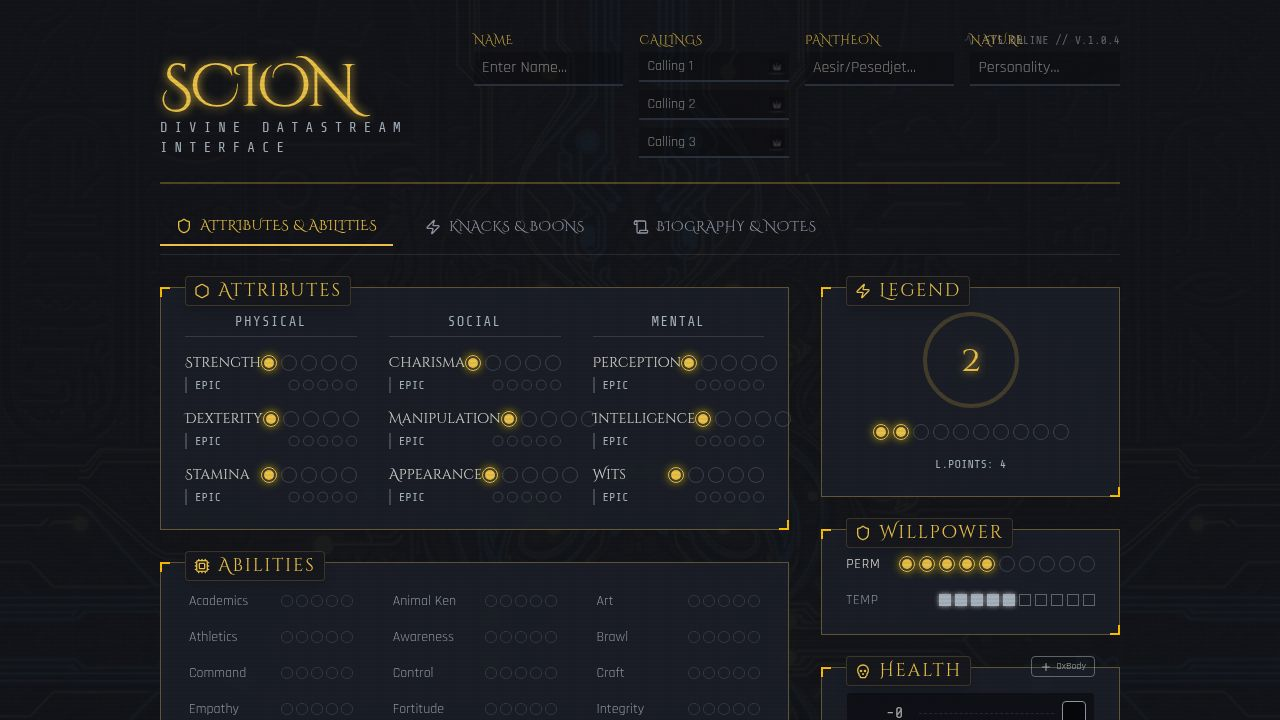
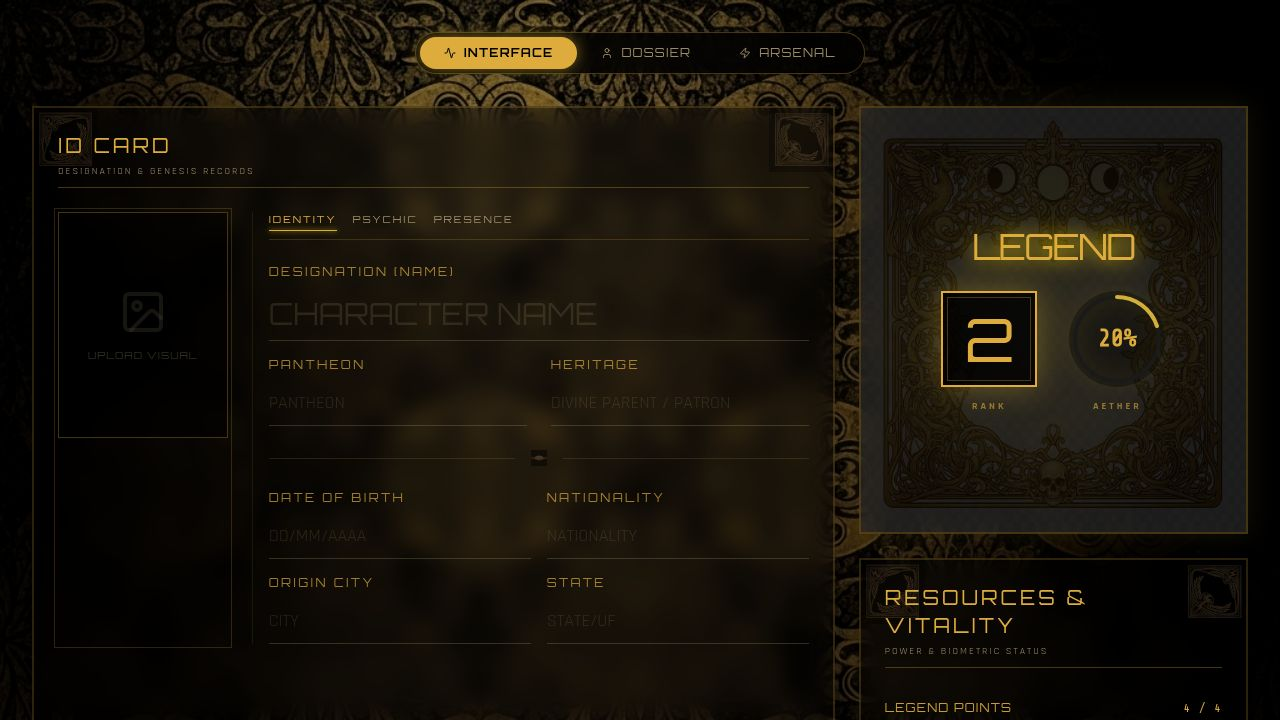
Update character sheet to consolidate vital resources and add tabbed ID card
Consolidate Legend Points and Willpower into the Health Monitor section. Implement a tabbed interface for the ID Card, including Identity, Psychic, and Presence sections.

Replit-Commit-Author: Agent
Replit-Commit-Session-Id: 4d83f060-1792-4806-afe7-bbb21cb824ef
Replit-Commit-Checkpoint-Type: full_checkpoint
Replit-Commit-Event-Id: 735c7306-ae49-4c5f-af53-063315cb3d71
Replit-Commit-Screenshot-Url: https://storage.googleapis.com/screenshot-production-us-central1/890c8229-f419-4736-a63e-8685bf7ca89a/4d83f060-1792-4806-afe7-bbb21cb824ef/N5RBDeC
Replit-Helium-Checkpoint-Created: true

diff --git a/client/src/pages/character-sheet.tsx b/client/src/pages/character-sheet.tsx
@@ -133,6 +133,7 @@ const HealthBox = ({ status, onClick }: { status: DamageType, onClick: () => voi
 
 export default function CharacterSheet() {
   const [activeTab, setActiveTab] = useState<"sheet" | "powers" | "bio">("sheet");
+  const [idCardTab, setIdCardTab] = useState<"identity" | "psychic" | "presence">("identity");
   
   // State
   const [attributes, setAttributes] = useState(DEFAULT_ATTRIBUTES);
@@ -399,30 +400,105 @@ export default function CharacterSheet() {
                         </div>
 
                         {/* Data Column */}
-                        <div className="md:col-span-9 flex flex-col gap-6 justify-center pl-4 border-l border-primary/10">
-                            {/* Identity Fields */}
-                            <div className="space-y-4">
-                                <ScionInput label="Designation (Name)" placeholder="CHARACTER NAME" className="text-2xl md:text-3xl font-mythic text-primary drop-shadow-[0_0_10px_rgba(212,175,55,0.3)]" />
-                                <div className="grid grid-cols-1 md:grid-cols-2 gap-6">
-                                    <ScionInput label="Pantheon" placeholder="PANTHEON" />
-                                    <ScionInput label="Heritage" placeholder="DIVINE PARENT / PATRON" />
-                                </div>
+                        <div className="md:col-span-9 flex flex-col gap-4 justify-center pl-4 border-l border-primary/10 relative min-h-[300px]">
+                            {/* ID Card Internal Navigation */}
+                            <div className="flex gap-4 mb-2 border-b border-primary/20 pb-2">
+                               {['identity', 'psychic', 'presence'].map((tab) => (
+                                  <button
+                                    key={tab}
+                                    onClick={() => setIdCardTab(tab as any)}
+                                    className={cn(
+                                      "text-[10px] uppercase tracking-[0.2em] font-mythic transition-colors pb-1 relative",
+                                      idCardTab === tab ? "text-primary" : "text-muted-foreground hover:text-primary/70"
+                                    )}
+                                  >
+                                    {tab}
+                                    {idCardTab === tab && (
+                                       <motion.div layoutId="idTabIndicator" className="absolute bottom-0 left-0 right-0 h-px bg-primary shadow-[0_0_5px_gold]" />
+                                    )}
+                                  </button>
+                               ))}
                             </div>
 
-                            {/* Divider with Ornament */}
-                            <div className="flex items-center gap-4 opacity-50">
-                               <div className="h-px bg-primary/30 flex-1" />
-                               <img src={divineDivider} className="h-4 w-auto" alt="" />
-                               <div className="h-px bg-primary/30 flex-1" />
-                            </div>
+                            <AnimatePresence mode="wait">
+                                {idCardTab === 'identity' && (
+                                    <motion.div 
+                                      key="identity"
+                                      initial={{ opacity: 0, x: -10 }}
+                                      animate={{ opacity: 1, x: 0 }}
+                                      exit={{ opacity: 0, x: 10 }}
+                                      className="space-y-6"
+                                    >
+                                        {/* Identity Fields */}
+                                        <div className="space-y-4">
+                                            <ScionInput label="Designation (Name)" placeholder="CHARACTER NAME" className="text-2xl md:text-3xl font-mythic text-primary drop-shadow-[0_0_10px_rgba(212,175,55,0.3)]" />
+                                            <div className="grid grid-cols-1 md:grid-cols-2 gap-6">
+                                                <ScionInput label="Pantheon" placeholder="PANTHEON" />
+                                                <ScionInput label="Heritage" placeholder="DIVINE PARENT / PATRON" />
+                                            </div>
+                                        </div>
 
-                            {/* Genesis Fields */}
-                            <div className="grid grid-cols-2 gap-4">
-                                <ScionInput label="Date of Birth" placeholder="DD/MM/AAAA" />
-                                <ScionInput label="Nationality" placeholder="NATIONALITY" />
-                                <ScionInput label="Origin City" placeholder="CITY" />
-                                <ScionInput label="State" placeholder="STATE/UF" />
-                            </div>
+                                        {/* Divider with Ornament */}
+                                        <div className="flex items-center gap-4 opacity-50">
+                                           <div className="h-px bg-primary/30 flex-1" />
+                                           <img src={divineDivider} className="h-4 w-auto" alt="" />
+                                           <div className="h-px bg-primary/30 flex-1" />
+                                        </div>
+
+                                        {/* Genesis Fields */}
+                                        <div className="grid grid-cols-2 gap-4">
+                                            <ScionInput label="Date of Birth" placeholder="DD/MM/AAAA" />
+                                            <ScionInput label="Nationality" placeholder="NATIONALITY" />
+                                            <ScionInput label="Origin City" placeholder="CITY" />
+                                            <ScionInput label="State" placeholder="STATE/UF" />
+                                        </div>
+                                    </motion.div>
+                                )}
+
+                                {idCardTab === 'psychic' && (
+                                   <motion.div 
+                                      key="psychic"
+                                      initial={{ opacity: 0, x: -10 }}
+                                      animate={{ opacity: 1, x: 0 }}
+                                      exit={{ opacity: 0, x: 10 }}
+                                      className="space-y-4 overflow-y-auto max-h-[300px] pr-2 scion-scrollbar"
+                                   >
+                                      <div className="grid grid-cols-2 gap-4">
+                                         <ScionInput label="Temperament" placeholder="Dominant Emotion" value={psychicProfile.temperament} onChange={(e) => setPsychicProfile({...psychicProfile, temperament: e.target.value})} />
+                                         <ScionInput label="Cognitive Type" placeholder="Thought Pattern" value={psychicProfile.cognitiveType} onChange={(e) => setPsychicProfile({...psychicProfile, cognitiveType: e.target.value})} />
+                                      </div>
+                                      <div className="grid grid-cols-2 gap-4">
+                                          <ScionInput label="Major Arcana" placeholder="Archetype" value={psychicProfile.majorArcana} onChange={(e) => setPsychicProfile({...psychicProfile, majorArcana: e.target.value})} />
+                                          <ScionInput label="Keywords" placeholder="Key Terms" value={psychicProfile.keywords} onChange={(e) => setPsychicProfile({...psychicProfile, keywords: e.target.value})} />
+                                      </div>
+                                      <div className="space-y-1">
+                                         <label className="text-[9px] uppercase tracking-widest text-primary/70 font-mythic">Deep Analysis</label>
+                                         <textarea className="w-full bg-black/20 border border-white/10 rounded-sm p-2 text-xs font-tech text-foreground outline-none focus:border-primary/50 min-h-[60px]" placeholder="Analysis..." value={psychicProfile.analysis} onChange={(e) => setPsychicProfile({...psychicProfile, analysis: e.target.value})} />
+                                      </div>
+                                   </motion.div>
+                                )}
+
+                                {idCardTab === 'presence' && (
+                                   <motion.div 
+                                      key="presence"
+                                      initial={{ opacity: 0, x: -10 }}
+                                      animate={{ opacity: 1, x: 0 }}
+                                      exit={{ opacity: 0, x: 10 }}
+                                      className="space-y-4 overflow-y-auto max-h-[300px] pr-2 scion-scrollbar"
+                                   >
+                                       <div className="grid grid-cols-3 gap-3">
+                                          <ScionInput label="Height" placeholder="Height" value={presenceProfile.height} onChange={(e) => setPresenceProfile({...presenceProfile, height: e.target.value})} />
+                                          <ScionInput label="Eyes" placeholder="Color" value={presenceProfile.eyeColor} onChange={(e) => setPresenceProfile({...presenceProfile, eyeColor: e.target.value})} />
+                                          <ScionInput label="Hair" placeholder="Color" value={presenceProfile.hairColor} onChange={(e) => setPresenceProfile({...presenceProfile, hairColor: e.target.value})} />
+                                       </div>
+                                       <div className="grid grid-cols-2 gap-4">
+                                           <ScionInput label="Aura" placeholder="Signature" value={presenceProfile.auraSignature} onChange={(e) => setPresenceProfile({...presenceProfile, auraSignature: e.target.value})} />
+                                           <ScionInput label="Scent" placeholder="Essence" value={presenceProfile.scent} onChange={(e) => setPresenceProfile({...presenceProfile, scent: e.target.value})} />
+                                       </div>
+                                       <ScionInput label="Distinguishing Mark" placeholder="Feature" value={presenceProfile.distinguishingMark} onChange={(e) => setPresenceProfile({...presenceProfile, distinguishingMark: e.target.value})} />
+                                   </motion.div>
+                                )}
+                            </AnimatePresence>
                         </div>
                     </div>
                 </SectionFrame>
@@ -555,8 +631,8 @@ export default function CharacterSheet() {
                    </div>
                 </div>
 
-                {/* Pools Section */}
-                <SectionFrame title="Pools" subHeader="Resource Management" className="flex-1">
+                {/* Pools & Health Section Combined */}
+                <SectionFrame title="Resources & Vitality" subHeader="Power & Biometric Status" className="flex-1 min-h-[400px]">
                    <div className="space-y-8 py-2">
                       {/* Legend Points */}
                       <div className="space-y-3">
@@ -599,6 +675,52 @@ export default function CharacterSheet() {
                             ))}
                          </div>
                       </div>
+
+                      {/* Divider */}
+                      <div className="flex items-center gap-4 opacity-30 py-2">
+                         <div className="h-px bg-primary/30 flex-1" />
+                         <Activity className="w-4 h-4 text-primary" />
+                         <div className="h-px bg-primary/30 flex-1" />
+                      </div>
+
+                      {/* Health Tracker Integrated */}
+                      <div className="space-y-4">
+                          <div className="flex justify-between items-center">
+                             <h4 className="text-[10px] uppercase tracking-[0.2em] font-mythic text-primary/70">Health Monitor</h4>
+                             <button 
+                                onClick={() => setExtraOxBody(prev => Math.min(prev + 1, 5))}
+                                className="text-[9px] border border-primary/30 px-2 py-0.5 hover:bg-primary/10 text-primary transition-colors uppercase tracking-wider rounded-sm"
+                             >
+                                + OxBody
+                             </button>
+                          </div>
+                          
+                          <div className="flex flex-wrap gap-4 justify-center items-end">
+                             {currentHealthLevels.map((level, i) => (
+                                <div key={i} className="flex flex-col items-center gap-2 group relative">
+                                   <HealthBox status={healthDamage[i]} onClick={() => toggleHealth(i)} />
+                                   <span className={cn(
+                                      "font-code text-[9px] uppercase tracking-wider transition-all duration-300",
+                                      level === "Incap" ? "text-red-500 font-bold" : "text-muted-foreground group-hover:text-primary"
+                                   )}>
+                                      {level}
+                                   </span>
+                                   {i < extraOxBody && (
+                                      <button onClick={() => {
+                                         setExtraOxBody(prev => prev - 1);
+                                         const newDamage = [...healthDamage];
+                                         newDamage.splice(i, 1);
+                                         newDamage.push(0); 
+                                         setHealthDamage(newDamage);
+                                      }} className="absolute -top-3 -right-2 text-destructive hover:text-red-400 opacity-0 group-hover:opacity-100 transition-opacity">
+                                         <Trash2 className="w-3 h-3" />
+                                      </button>
+                                   )}
+                                </div>
+                             ))}
+                          </div>
+                      </div>
+
                    </div>
                 </SectionFrame>
             </div>
@@ -766,52 +888,8 @@ export default function CharacterSheet() {
                  </SectionFrame>
               </div>
 
-              {/* Health Tracker */}
-              <div className="md:col-span-12">
-                 <SectionFrame 
-                    title="Health Monitor" 
-                    subHeader="Biometric Status" 
-                    action={
-                        <button 
-                          onClick={() => setExtraOxBody(prev => Math.min(prev + 1, 5))}
-                          className="text-[10px] border border-primary/30 px-3 py-1 hover:bg-primary/10 text-primary transition-colors uppercase tracking-wider rounded-sm"
-                        >
-                          + OxBody
-                        </button>
-                    }
-                  >
-                    <div className="flex flex-wrap gap-6 justify-center md:justify-start items-end mt-6 pb-2">
-                       {currentHealthLevels.map((level, i) => (
-                          <div key={i} className="flex flex-col items-center gap-3 group relative">
-                             {/* Connector Line */}
-                             {i < currentHealthLevels.length - 1 && (
-                                 <div className="absolute top-3 left-1/2 w-full h-px bg-primary/20 -z-10" />
-                             )}
-                             
-                             <HealthBox status={healthDamage[i]} onClick={() => toggleHealth(i)} />
-                             <span className={cn(
-                                "font-code text-[10px] uppercase tracking-widest transition-all duration-300",
-                                level === "Incap" ? "text-red-500 font-bold" : "text-muted-foreground group-hover:text-primary"
-                             )}>
-                                {level}
-                             </span>
-                             {i < extraOxBody && (
-                                <button onClick={() => {
-                                   setExtraOxBody(prev => prev - 1);
-                                   const newDamage = [...healthDamage];
-                                   newDamage.splice(i, 1);
-                                   newDamage.push(0); 
-                                   setHealthDamage(newDamage);
-                                }} className="absolute -top-4 text-destructive hover:text-red-400 opacity-0 group-hover:opacity-100 transition-opacity">
-                                   <Trash2 className="w-3 h-3" />
-                                </button>
-                             )}
-                          </div>
-                       ))}
-                    </div>
-                 </SectionFrame>
-              </div>
-
+              {/* Health Tracker - REMOVED since it is now combined with Pools */}
+              
             </motion.div>
           )}
 
@@ -822,10 +900,10 @@ export default function CharacterSheet() {
               animate={{ opacity: 1, y: 0 }}
               exit={{ opacity: 0, y: -20 }}
               transition={{ duration: 0.3 }}
-              className="grid grid-cols-1 md:grid-cols-12 gap-6"
+              className="grid grid-cols-1 gap-6"
             >
                {/* Psychic Profile */}
-               <div className="md:col-span-6 space-y-6">
+               <div className="space-y-6">
                   <SectionFrame title="Psychic Profile" subHeader="Mind & Soul Analysis" className="h-full">
                      <div className="space-y-6">
                         <div className="grid grid-cols-2 gap-6">
@@ -865,7 +943,7 @@ export default function CharacterSheet() {
                            />
                         </div>
 
-                        <div className="grid grid-cols-1 gap-6">
+                        <div className="grid grid-cols-1 md:grid-cols-3 gap-6">
                            <div className="space-y-2">
                               <label className="text-[10px] uppercase tracking-widest text-primary/70 font-mythic block">Strengths</label>
                               <textarea 
@@ -899,7 +977,7 @@ export default function CharacterSheet() {
                </div>
 
                {/* Presence Profile */}
-               <div className="md:col-span-6 space-y-6">
+               <div className="space-y-6">
                   <SectionFrame title="Presence Profile" subHeader="Appearance & Aura" className="h-full">
                      <div className="space-y-6">
                         <div className="grid grid-cols-3 gap-4">
@@ -923,18 +1001,20 @@ export default function CharacterSheet() {
                            />
                         </div>
 
-                        <ScionInput 
-                           label="Aura Signature" 
-                           placeholder="Vibration/Feeling" 
-                           value={presenceProfile.auraSignature}
-                           onChange={(e) => setPresenceProfile({...presenceProfile, auraSignature: e.target.value})}
-                        />
-                         <ScionInput 
-                           label="Scent / Essence" 
-                           placeholder="Olfactory Impression" 
-                           value={presenceProfile.scent}
-                           onChange={(e) => setPresenceProfile({...presenceProfile, scent: e.target.value})}
-                        />
+                        <div className="grid grid-cols-1 md:grid-cols-2 gap-6">
+                           <ScionInput 
+                              label="Aura Signature" 
+                              placeholder="Vibration/Feeling" 
+                              value={presenceProfile.auraSignature}
+                              onChange={(e) => setPresenceProfile({...presenceProfile, auraSignature: e.target.value})}
+                           />
+                            <ScionInput 
+                              label="Scent / Essence" 
+                              placeholder="Olfactory Impression" 
+                              value={presenceProfile.scent}
+                              onChange={(e) => setPresenceProfile({...presenceProfile, scent: e.target.value})}
+                           />
+                        </div>
                         <ScionInput 
                            label="Distinguishing Mark" 
                            placeholder="Notable Feature" 
@@ -942,24 +1022,26 @@ export default function CharacterSheet() {
                            onChange={(e) => setPresenceProfile({...presenceProfile, distinguishingMark: e.target.value})}
                         />
 
-                        <div className="space-y-2">
-                           <label className="text-[10px] uppercase tracking-widest text-primary/70 font-mythic block">Fashion & Style</label>
-                           <textarea 
-                              className="w-full bg-black/40 border border-white/10 rounded-sm p-3 text-sm font-tech text-foreground outline-none focus:border-primary/50 min-h-[100px] resize-none"
-                              placeholder="Dress Style & Presentation..."
-                              value={presenceProfile.fashion}
-                              onChange={(e) => setPresenceProfile({...presenceProfile, fashion: e.target.value})}
-                           />
-                        </div>
+                        <div className="grid grid-cols-1 md:grid-cols-2 gap-6">
+                           <div className="space-y-2">
+                              <label className="text-[10px] uppercase tracking-widest text-primary/70 font-mythic block">Fashion & Style</label>
+                              <textarea 
+                                 className="w-full bg-black/40 border border-white/10 rounded-sm p-3 text-sm font-tech text-foreground outline-none focus:border-primary/50 min-h-[100px] resize-none"
+                                 placeholder="Dress Style & Presentation..."
+                                 value={presenceProfile.fashion}
+                                 onChange={(e) => setPresenceProfile({...presenceProfile, fashion: e.target.value})}
+                              />
+                           </div>
 
-                        <div className="space-y-2">
-                           <label className="text-[10px] uppercase tracking-widest text-primary/70 font-mythic block">Visual Notes</label>
-                           <textarea 
-                              className="w-full bg-black/40 border border-white/10 rounded-sm p-3 text-sm font-tech text-foreground outline-none focus:border-primary/50 min-h-[200px] resize-none"
-                              placeholder="Additional Visual Observations..."
-                              value={presenceProfile.visualNotes}
-                              onChange={(e) => setPresenceProfile({...presenceProfile, visualNotes: e.target.value})}
-                           />
+                           <div className="space-y-2">
+                              <label className="text-[10px] uppercase tracking-widest text-primary/70 font-mythic block">Visual Notes</label>
+                              <textarea 
+                                 className="w-full bg-black/40 border border-white/10 rounded-sm p-3 text-sm font-tech text-foreground outline-none focus:border-primary/50 min-h-[100px] resize-none"
+                                 placeholder="Additional Visual Observations..."
+                                 value={presenceProfile.visualNotes}
+                                 onChange={(e) => setPresenceProfile({...presenceProfile, visualNotes: e.target.value})}
+                              />
+                           </div>
                         </div>
                      </div>
                   </SectionFrame>
